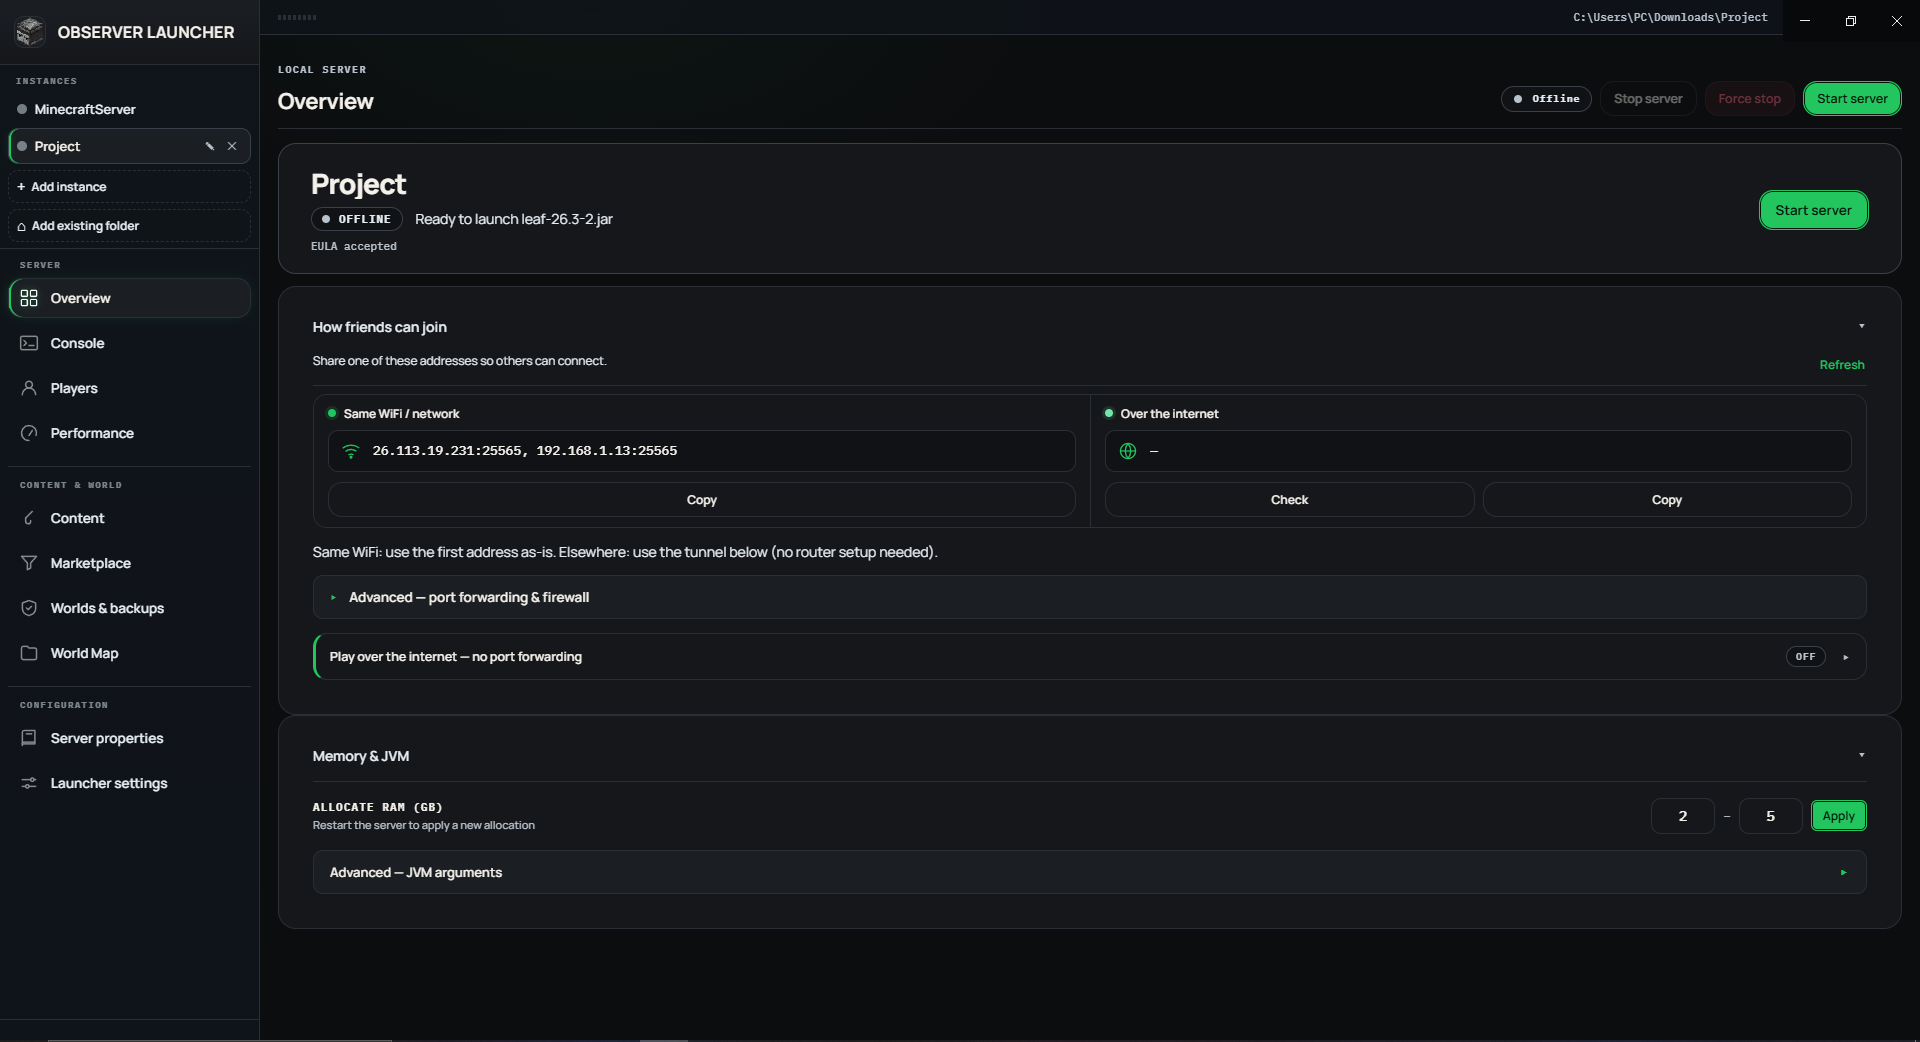
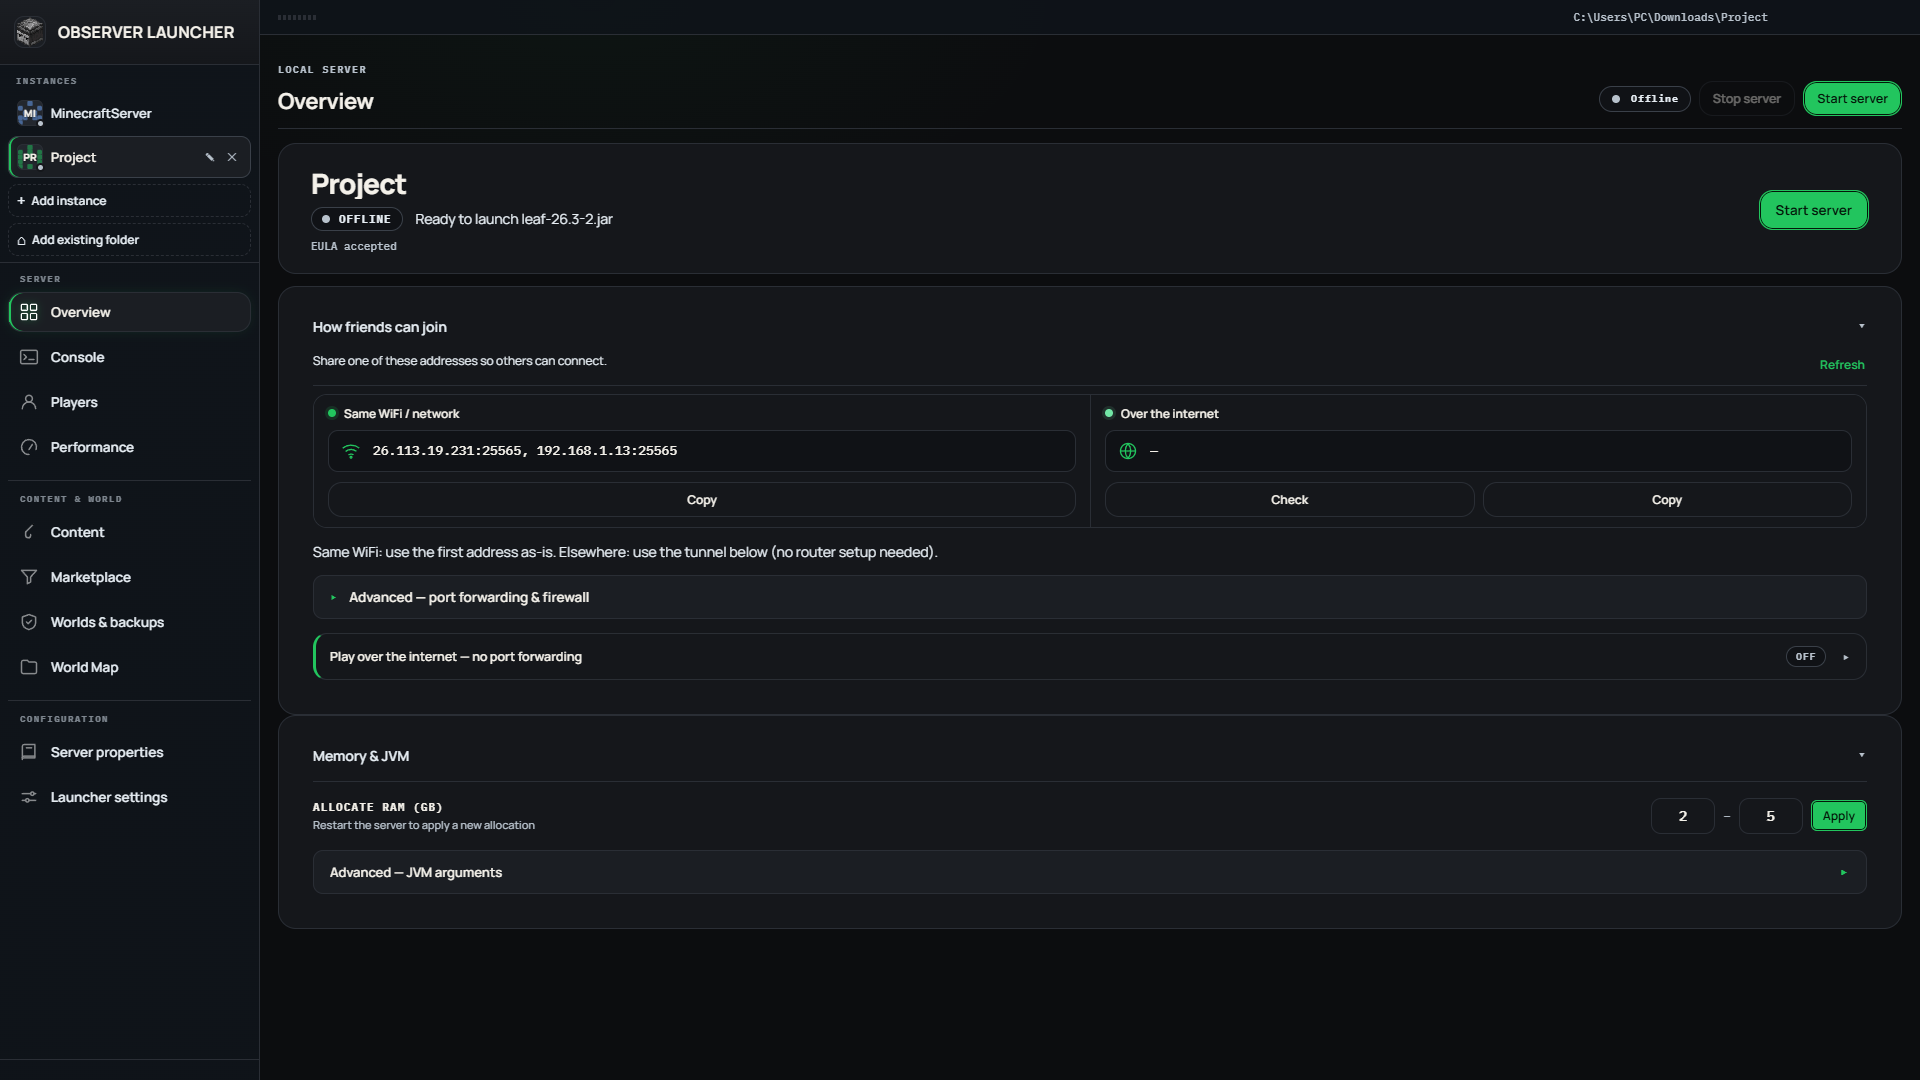
5.0.0: replace AI terminal with real MCP settings screenshot

diff --git a/index.html b/index.html
@@ -254,12 +254,12 @@
       <div class="ai-tiers">
         <div class="ai-tier"><span class="at-tag read" data-i18n="ai.tierReadTag">READ</span><span data-i18n="ai.tierRead">Runs freely — status, metrics, logs, diagnosis, world data.</span></div>
         <div class="ai-tier"><span class="at-tag write" data-i18n="ai.tierWriteTag">WRITE</span><span data-i18n="ai.tierWrite">Asks first — install, edit files, send a command.</span></div>
-        <div class="ai-tier"><span class="at-tag destroy" data-i18n="ai.tierDestroyTag">DESTROY</span><span data-i18n="ai.tierDestroy">Always asks, never auto-approved — stop, delete, restore, restart.</span></div>
+        <div class="ai-tier"><span class="at-tag destroy" data-i18n="ai.tierDestroyTag">DESTROY</span><span data-i18n="ai.tierDestroy">Always asks — delete, restore. Stop / restart skip the prompt when Auto-allow-write is on.</span></div>
       </div>
     </div>
-    <div class="ai-term" aria-hidden="true">
-      <div class="ai-term-head"><span class="dot r"></span><span class="dot y"></span><span class="dot g"></span><span class="ai-term-title">mcp · observerlauncher</span></div>
-      <pre class="ai-term-body" id="aiTerm"></pre>
+    <div class="ai-shot">
+      <div class="ai-term-head"><span class="dot r"></span><span class="dot y"></span><span class="dot g"></span><span class="ai-term-title">observerlauncher · settings / MCP</span></div>
+      <img src="./assets/shots/MCP.png" alt="MCP / AI integration settings in ObserverLauncher" loading="lazy" decoding="async">
     </div>
   </div>
 </section>

diff --git a/js/main.js b/js/main.js
@@ -101,27 +101,6 @@
     onceInView($('#console-band'),start);
   })();
 
-  // ---------- AI terminal (starts on scroll-in) ----------
-  (function(){
-    const body=$('#aiTerm'); if(!body) return;
-    const rows=[
-      '<span class="d">> </span><span class="k">doctor_report</span>',
-      '<span class="d">  checking port 25565 … </span><span class="ok">free</span>',
-      '<span class="d">  scanning console … </span><span class="ok">no errors</span>',
-      '<span class="d">  tps 20.0 · mspt 3.4 · ram 2.1/6 GB</span>',
-      '<span class="ok">  all clear — nothing to fix.</span>',
-      '',
-      '<span class="d">> </span><span class="k">plan_modpack</span><span class="d"> (create, jei, sodium)</span>',
-      '<span class="d">  resolved 3 projects · 1 dependency added</span>',
-      '<span class="d">  awaiting confirmation …</span>',
-      '<span class="ok">  installed 3 files. restart to apply.</span>',
-    ];
-    let i=0, started=false;
-    function push(){ if(i>=rows.length){ setTimeout(()=>{ body.innerHTML=''; i=0; push(); }, 5200); return; } body.innerHTML+=rows[i]+'\n'; body.scrollTop=body.scrollHeight; i++; setTimeout(push, 520); }
-    function start(){ if(started) return; started=true; if(reduce){ body.innerHTML=rows.join('\n'); } else setTimeout(push, 500); }
-    onceInView($('#ai'),start);
-  })();
-
   // ---------- ongoing metric jitter (after the counter warm-up in motion.js) ----------
   (function(){
     const els={tps:$('#roTps'),mspt:$('#roMspt'),cpu:$('#roCpu'),ram:$('#roRam')};

diff --git a/css/site.css b/css/site.css
@@ -289,13 +289,12 @@ body.booted .choreo[data-choreo="5"]{transition-delay:.70s}
 .at-tag.read{color:var(--success);border-color:rgba(0,229,160,.3)}
 .at-tag.write{color:var(--warning);border-color:rgba(255,210,63,.3)}
 .at-tag.destroy{color:var(--danger);border-color:rgba(255,59,92,.3)}
-.ai-term{background:var(--field);border:1px solid var(--border);border-radius:var(--r);overflow:hidden;box-shadow:0 30px 90px -40px rgba(0,0,0,.85)}
+.ai-shot{background:var(--field);border:1px solid var(--border);border-radius:var(--r);overflow:hidden;box-shadow:0 30px 90px -40px rgba(0,0,0,.85)}
+.ai-shot img{display:block;width:100%;height:auto;background:var(--panel)}
 .ai-term-head{display:flex;align-items:center;gap:6px;padding:10px 14px;border-bottom:1px solid var(--border);background:var(--panel)}
 .ai-term-head .dot{width:9px;height:9px;border-radius:50%}
 .ai-term-head .dot.r{background:#ff5f57}.ai-term-head .dot.y{background:#febc2e}.ai-term-head .dot.g{background:#28c840}
 .ai-term-title{margin-left:8px;font:600 11px var(--font-mono);color:var(--text-dim)}
-.ai-term-body{margin:0;padding:16px;font:500 12px var(--font-mono);line-height:1.85;color:var(--text-muted);height:320px;white-space:pre-wrap;overflow-y:auto}
-.ai-term-body .k{color:var(--accent)} .ai-term-body .ok{color:var(--success)} .ai-term-body .d{color:var(--text-dim)}
 
 /* ============ PRIVACY ============ */
 .privacy-grid{display:grid;grid-template-columns:repeat(4,1fr);gap:14px}
